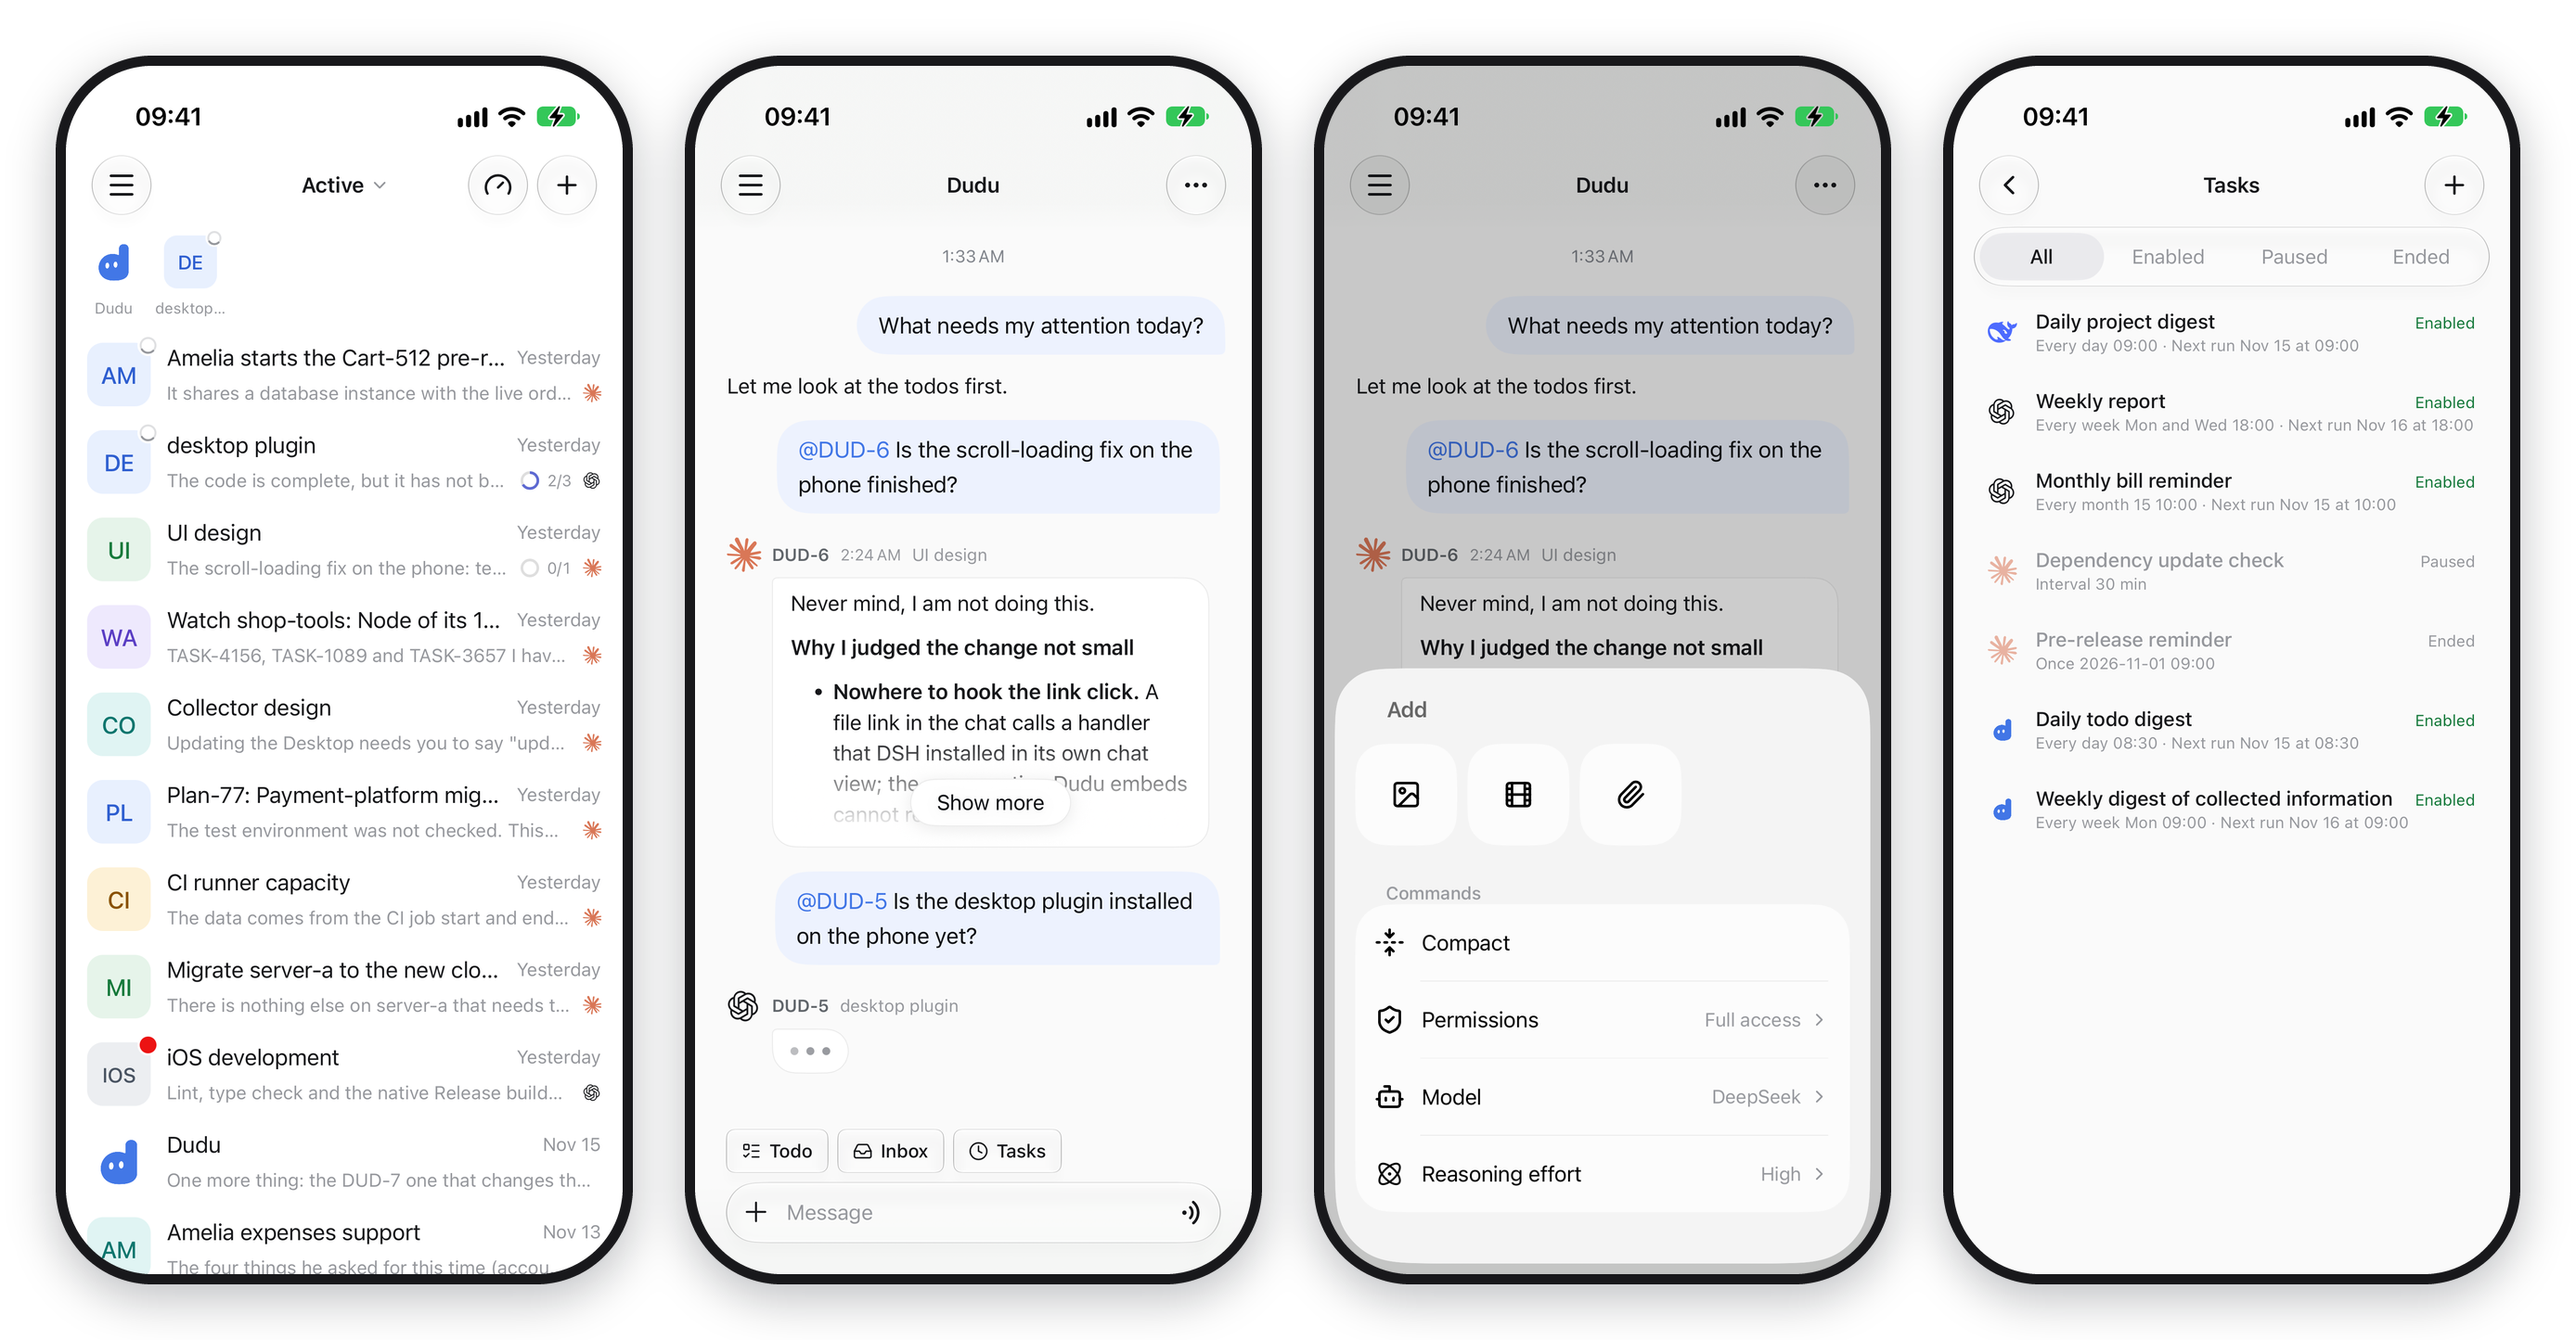
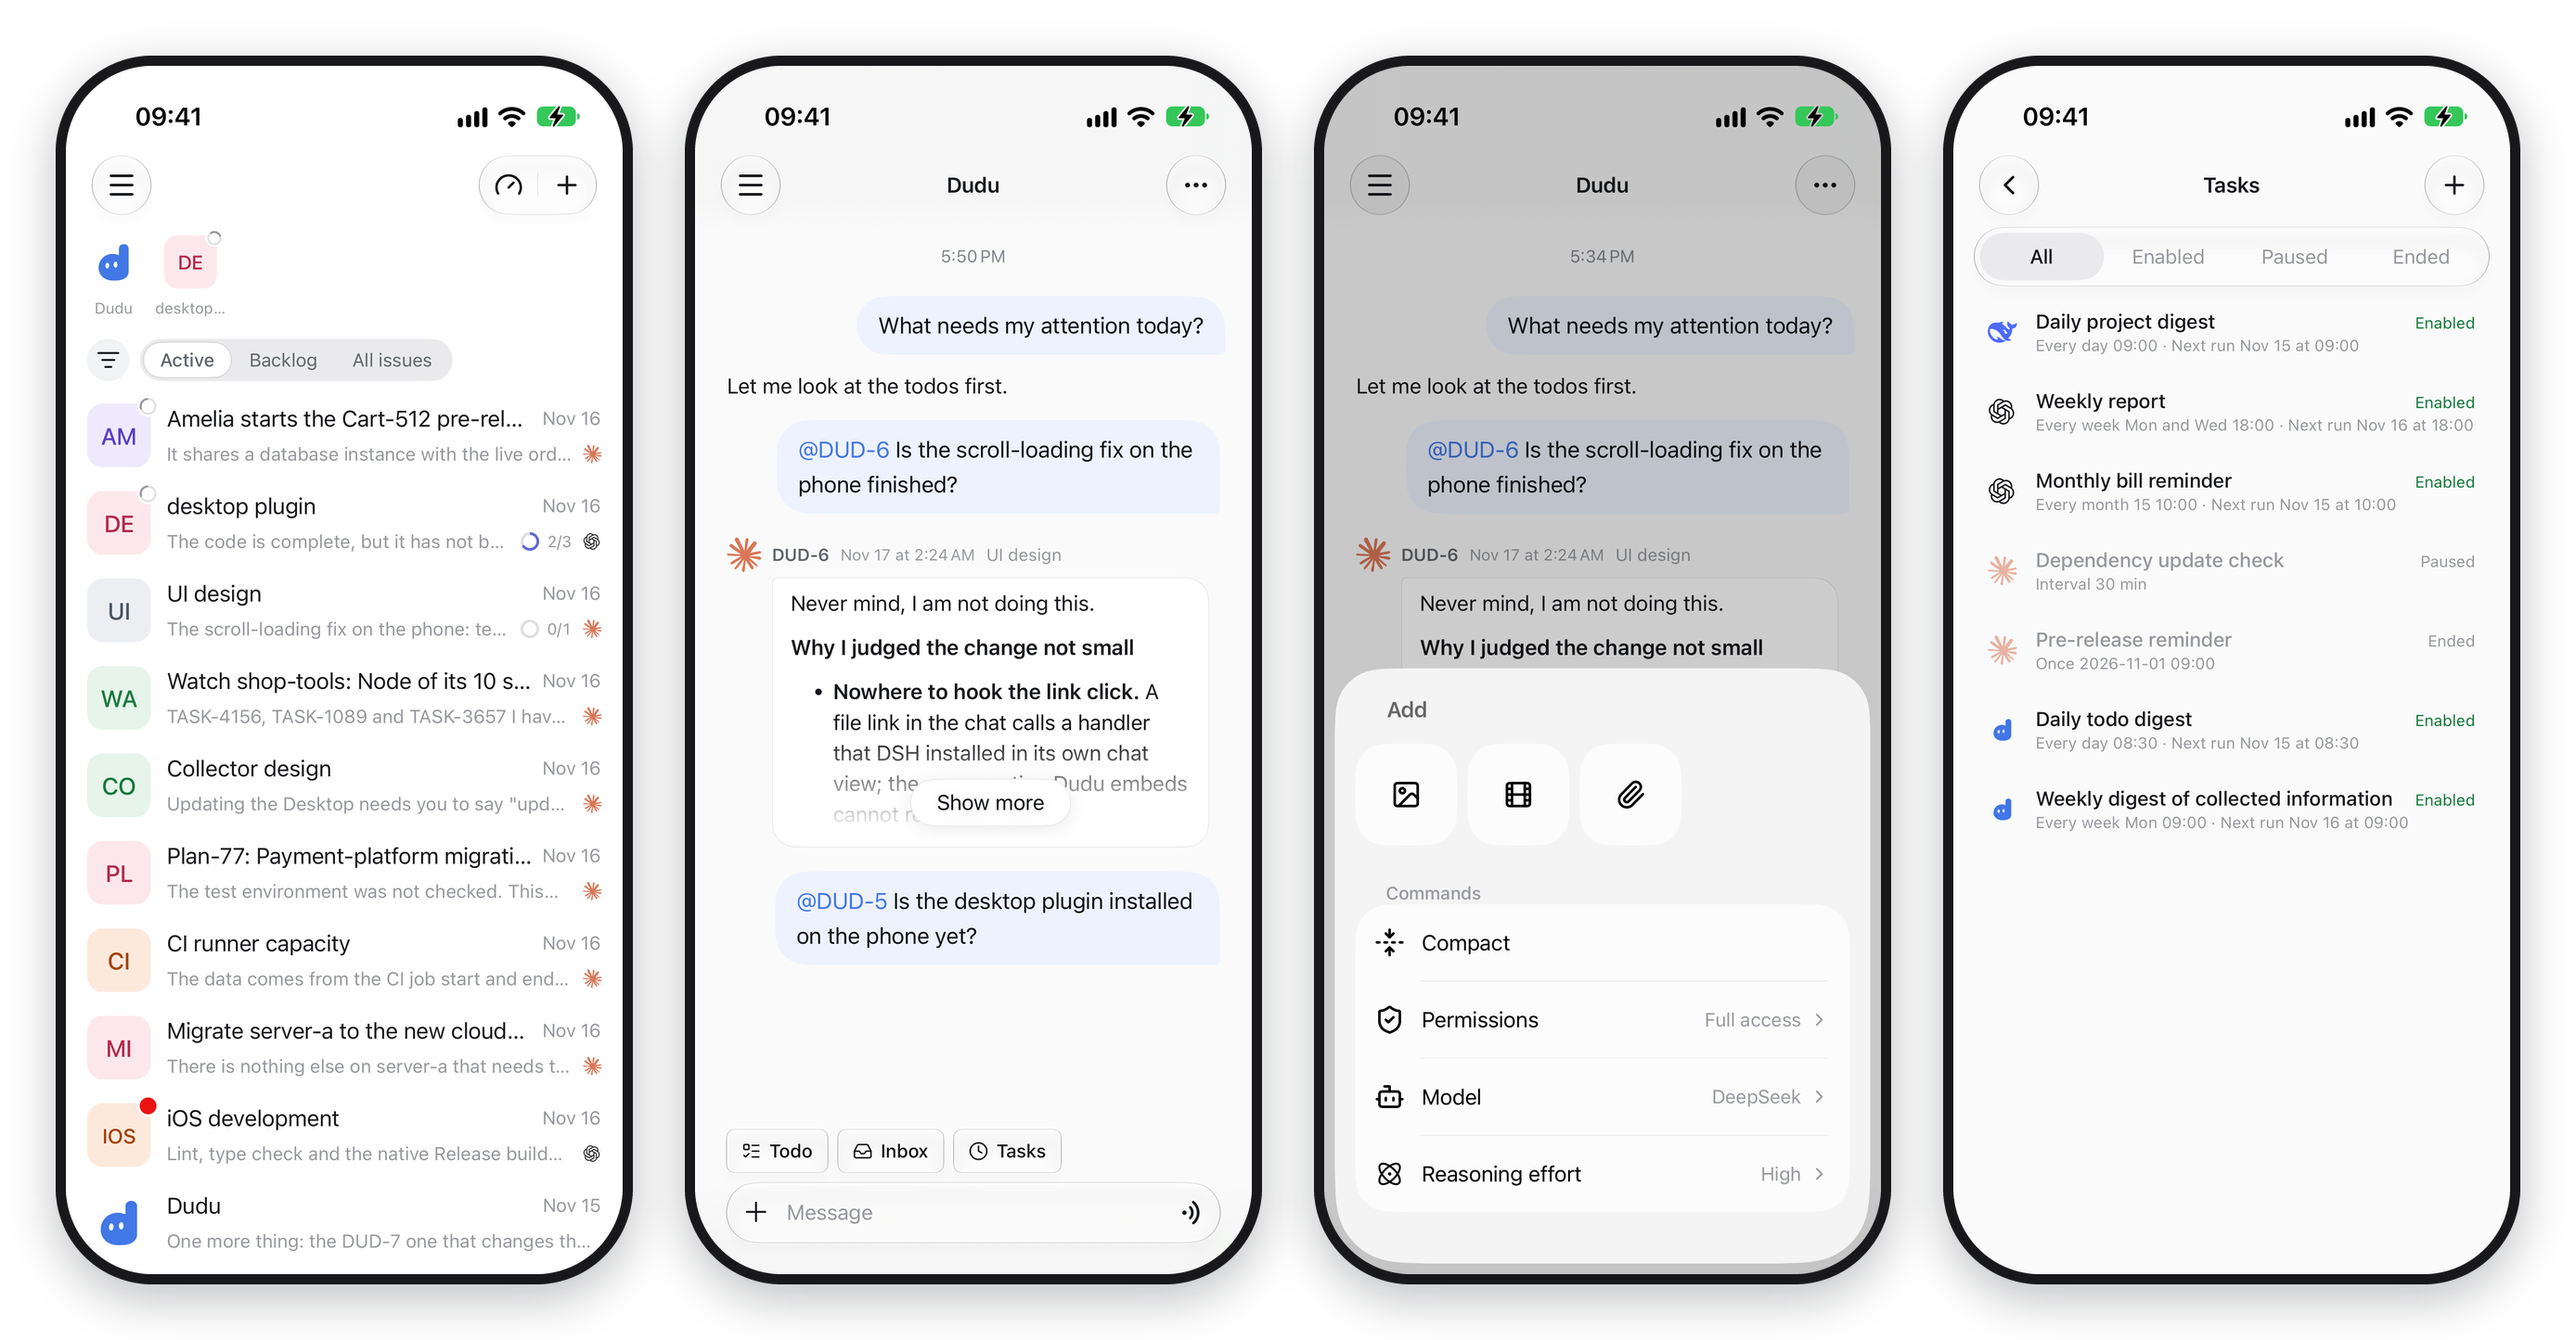
README: re-shoot the pictures from the current interface
The hero, the dashboard and the phone pictures (English and Chinese) are taken again from the current
build: the new tabs of the conversation list, the Inbox without Ignored, twelve avatar colours, and a
board whose cards show the latest message of their conversation. The data is made up. The Inbox bullet
of README.md no longer says records can be ignored.

diff --git a/README.md b/README.md
@@ -23,7 +23,7 @@ Dudu is a plugin for [DeepSeek Harness](https://github.com/deepseek-ai/deepseek-
 - **Agents**: Claude Code, Codex, Pi and DeepSeek. Claude Code and Codex run as the programs installed on your computer, with your login, settings, skills and MCP servers; Pi runs the installed `pi` (1.4.0 or later). Import the Claude Code and Codex sessions you already have, or take one over as an Issue.
 - **Terminal**: copy a Claude Code or Codex session's resume command from its Issue and continue in a terminal. Use a session in one place at a time, DSH or the terminal.
 - **Mobile app**: the same conversations in your pocket, with voice input.
-- **Inbox**: a DSH model reads Lark, Notion, Linear and more through the collectors you set up, on a schedule you choose, so each collection costs tokens. Each record can become an Issue, go to an Agent as a message, or be ignored.
+- **Inbox**: a DSH model reads Lark, Notion, Linear and more through the collectors you set up, on a schedule you choose, so each collection costs tokens. Each record can become an Issue or go to an Agent as a message.
 - **Chat**: ask Dudu to create an Issue, or type `@` to message an Issue's Agent. Open it from the blue icon at the bottom right.
 - **Scheduled tasks**: run a prompt on a schedule.
 - **Quota**: click the Quota icon at the top right to see what is left on Claude, ChatGPT and DeepSeek.
